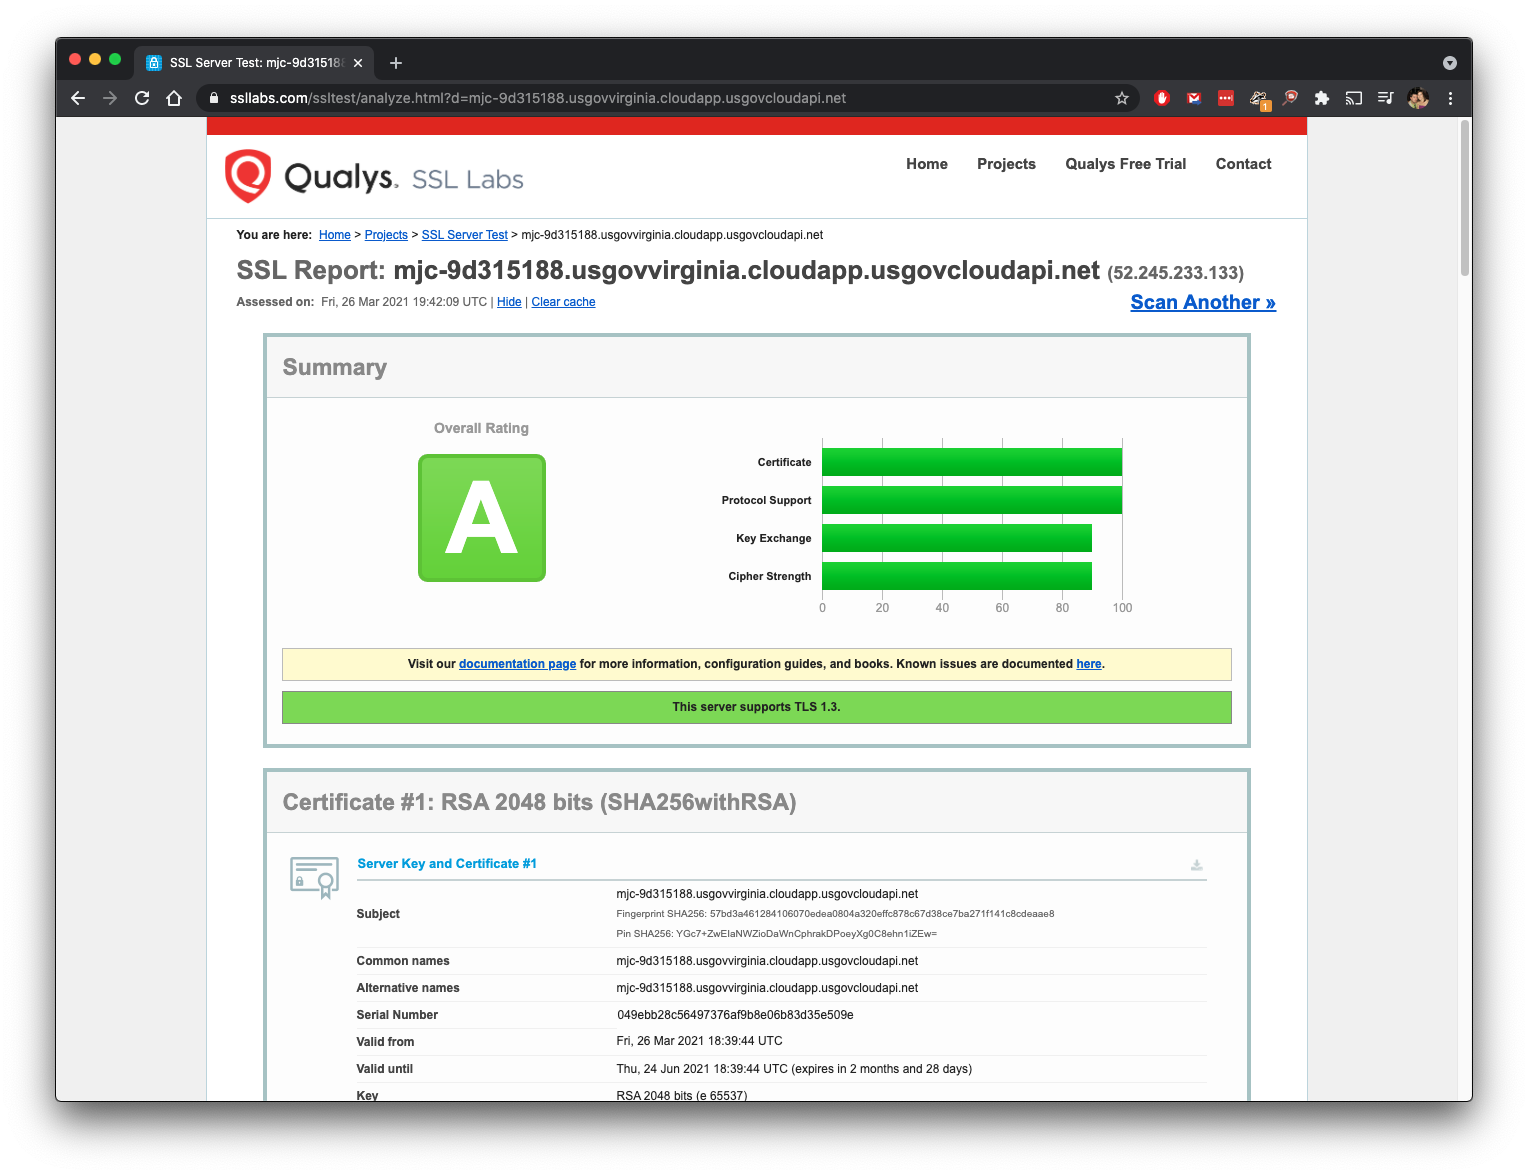
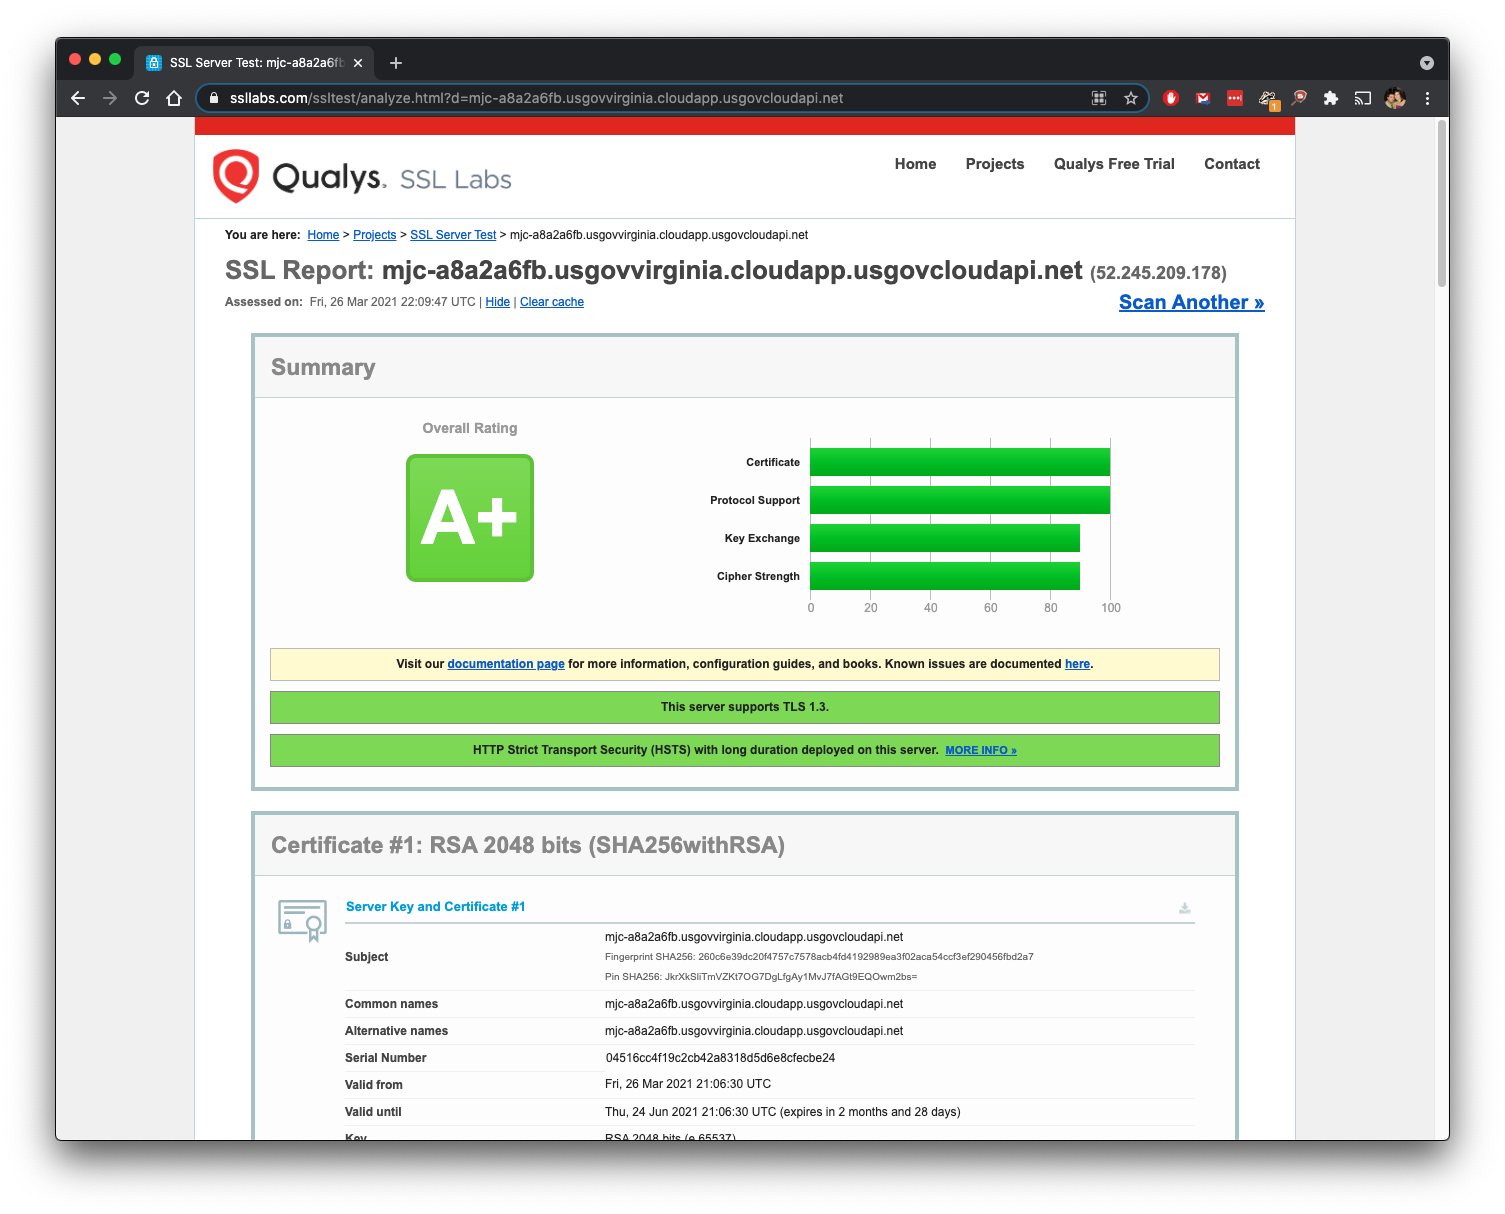
nginx - have not switched to plus, but everything is in place. - getting A+ now on SSL Labs.

diff --git a/TODO.md b/TODO.md
@@ -1,0 +1,35 @@
+# todo
+
+- sudo sed -i 's/#add_header Strict-Transport-Security/add_header Strict-Transport-Security/g' /etc/nginx/conf.d/default.conf
+- echo '* hard maxlogins 10' >> /etc/security/limits.conf
+- sudo apt-get remove telnet
+- sed -i 's|PASS_MIN_DAYS.*|PASS_MIN_DAYS   1|g' /etc/login.defs
+- sed -i 's|PASS_MAX_DAYS.*|PASS_MAX_DAYS   60|g' /etc/login.defs
+- echo "CREATE_HOME yes" >> /etc/login.defs
+- printf '#!/bin/bash\nTMOUT=900\nreadonly TMOUT\nexport TMOUT' > /etc/profile.d/autologout.sh
+- chmod 755 /etc/profile.d/autologout.sh
+- mkdir /etc/dconf/db/local.d/
+- printf '[org/gnome/settings-daemon/plugins/media-keys]\nlogout="" ' > /etc/dconf/db/local.d/00-disable-CAD
+- dconf update
+- echo "install usb-storage /bin/true" >> /etc/modprobe.d/disable_usb_storage.conf
+- echo "maxpoll = 17" >> /etc/ntp.conf
+- systemctl restart ntp
+- sed -i 's|#net.ipv4.tcp_syncookies=1|net.ipv4.tcp_syncookies = 1|g' /etc/sysctl.conf
+- sed -i 's|#net.ipv4.conf.default.accept_redirects = 0|net.ipv4.conf.default.accept_redirects = 0|g' /etc/sysctl.conf
+- sed -i 's|#net.ipv4.conf.all.send_redirects = 0|net.ipv4.conf.all.send_redirects = 0|g' /etc/sysctl.conf
+- sed -i 's|#net.ipv4.ip_forward=1|net.ipv4.ip_forward = 0|g' /etc/sysctl.conf
+- printf '\nnet.ipv4.conf.default.send_redirects=0\nnet.ipv4.conf.all.accept_redirects=0' >> /etc/sysctl.conf
+- sudo sysctl -p > /dev/null
+- dpkg -i deb_packages/libauparse0_2.4.5-1ubuntu2.1_amd64.deb > /dev/null
+- dpkg -i deb_packages/auditd_2.4.5-1ubuntu2_amd64.deb >  /dev/null
+- dpkg -i deb_packages/libprelude2v5_1.0.0-11.7ubuntu1_amd64.deb > /dev/null
+- dpkg -i deb_packages/audispd-plugins_2.4.5-1ubuntu2_amd64.deb > /dev/null
+- sed -i 's|max_log_file_action = ROTATE|max_log_file_action = SYSLOG|g' /etc/audit/auditd.conf
+- sed -i 's|disk_full_action = SUSPEND|disk_full_action = HALT|g' /etc/audit/auditd.conf
+- sed -i 's|disk_full_action = ignore|disk_full_action = SYSLOG|g' /etc/audisp/audisp-remote.conf
+- sed -i 's|##enable_krb5 = no|enable_krb5 = yes|g' /etc/audisp/audisp-remote.conf
+- sed -i 's|network_failure_action = stop|network_failure_action = halt|g' /etc/audisp/audisp-remote.conf
+- printf '\nnetwork_failure_action = stop' >> /etc/audisp/audisp-remote.conf
+- systemctl restart auditd.service
+- dpkg -i deb_packages/opensc-pkcs11_0.15.0-1ubuntu1_amd64.deb > /dev/null
+- dpkg -i deb_packages/libpam-pkcs11_0.6.8-4_amd64.deb > /dev/null

diff --git a/README.md b/README.md
@@ -1,12 +1,17 @@
 # ubuntu-hardened-host
+
 Hardened (FIPS) Host for NGINX, Docker, Kubernetes, etc
 
 - This will deploy a single Ubuntu 18.04 (Bionic) Instance, apply security hardening configurations, install NGINX/NGINX+, Docker, and Kubernetes.  
 - Then use certbot to install valid certificate.
 - Then download and scan with OpenScap, saving the results to the default index for NGINX.
 ![OpenScap](./images/1.png)
-- Current configs are only hitting SSL Labs A, but need to add in a few more configs.
+- Current configs are recieving A+ on SSL Labs.
 ![SSL Labs](./images/2.png)
+
+## to do
+
+- [to do](TODO.md)
 
 ## Deployment
 
